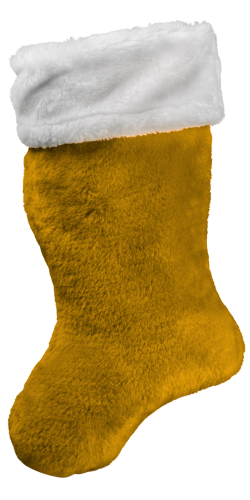
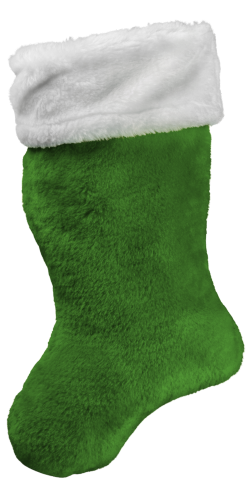
starting fix

diff --git a/holiday/src/rooms/Room1.jsx b/holiday/src/rooms/Room1.jsx
@@ -81,7 +81,7 @@ export default function Room1() {
                     <div className="panel" role="dialog" aria-modal="true" aria-label="Stockings note">
                         <button className="panel-close" onClick={() => setShowNote(false)} aria-label="Close">✕</button>
                         <img src={noteStockings} alt='Note reading: "To light the tree, add the colors that mix me."' />
-                        <p className="panel-text">“To light the tree, add the colors that mix me.”</p>
+                        <p className="panel-text">To light the tree, add the colors that mix me.</p>
                     </div>
                 )}
 
@@ -90,11 +90,10 @@ export default function Room1() {
                         <button className="panel-close" onClick={() => setShowMixer(false)} aria-label="Close">✕</button>
                         <h2>Color Clues</h2>
                         <ul className="panel-list">
-                            <li><strong>Gold</strong> shines when <em>Red + Green</em> come together.</li>
-                            <li><strong>Purple</strong> appears from <em>Red + Blue</em> (it’s “more” than either alone).</li>
-                            <li>Two stockings already show their numbers.</li>
+                            <li>Last year we had a <strong>Yellow</strong>stocking with a golden <strong>7</strong></li>
+                            <li><strong>Purple</strong> appears from <em>Red + Blue</em></li>
+                            <li>Maybe "mix" means add the color numbers...</li>
                         </ul>
-                        <p className="panel-text faint">Maybe “mix” means add the color numbers…</p>
                     </div>
                 )}
 
@@ -103,10 +102,10 @@ export default function Room1() {
                         <button className="panel-close" onClick={() => setShowTreeHint(false)} aria-label="Close">✕</button>
                         <h2>Tree Lights</h2>
                         <p className="panel-text">
-                            The lights flicker near the <b>Blue</b> and <b>Gold</b> stockings, waiting for their numbers.
+                            The lights flicker near the <b>Blue</b> and <b>Green</b> stockings, waiting for their numbers.
                         </p>
                         <p className="panel-text faint">
-                            Red = 7, Green = 5… if Purple comes from Red + Blue, what might Blue be?
+                            Red = 5, Purple = 9...if Purple comes from Red + Blue, what might Blue be?
                         </p>
                     </div>
                 )}

diff --git a/holiday/src/components/StockingShuffle.jsx b/holiday/src/components/StockingShuffle.jsx
@@ -5,17 +5,17 @@ export default function StockingShuffle({ onClose = () => { }, onSolved = () => 
     // Known: Red=7, Green=5. Solve for Blue and Gold.
     // From project notes: correct sequence is [7, 5, 9, 12].
     const [blue, setBlue] = useState("");
-    const [gold, setGold] = useState("");
+    const [green, setGreen] = useState("");
     const [status, setStatus] = useState("idle"); // 'idle' | 'error' | 'success'
 
     const handleSubmit = (e) => {
         e.preventDefault();
         const b = parseInt(blue, 10);
-        const g = parseInt(gold, 10);
+        const g = parseInt(green, 10);
 
-        if (b === 9 && g === 12) {
+        if (b === 4 && g === 11) {
             setStatus("success");
-            setTimeout(() => onSolved(), 600);
+            setTimeout(() => onSolved(), 8000);
         } else {
             setStatus("error");
         }
@@ -27,7 +27,7 @@ export default function StockingShuffle({ onClose = () => { }, onSolved = () => 
                 <button className="panel-close" onClick={onClose} aria-label="Close puzzle">✕</button>
                 <h2>Stocking Shuffle</h2>
                 <p className="modal-hint">
-                    Red = <b>7</b>, Green = <b>5</b>. Blue and Gold are blank.
+                    Red = <b>5</b>, Purple = <b>9</b>. Blue and Green are blank.
                     <br />
                     Use the hints around the room about color mixing to find their values.
                 </p>
@@ -47,14 +47,14 @@ export default function StockingShuffle({ onClose = () => { }, onSolved = () => 
                     </label>
 
                     <label>
-                        Gold
+                        Green
                         <input
                             inputMode="numeric"
                             pattern="[0-9]*"
-                            value={gold}
-                            onChange={(e) => setGold(e.target.value)}
+                            value={green}
+                            onChange={(e) => setGreen(e.target.value)}
                             placeholder="?"
-                            aria-label="Enter Gold stocking number"
+                            aria-label="Enter Green stocking number"
                             required
                         />
                     </label>

diff --git a/holiday/src/styles/Room1.scss b/holiday/src/styles/Room1.scss
@@ -202,7 +202,7 @@
             background: linear-gradient(180deg, rgba(20,28,40,0.95), rgba(14,20,30,0.95));
             border: 1px solid rgba(255,255,255,0.1);
             border-radius: 16px;
-            width: min(720px, 92vw);
+            width: min(820px, 92vw);
             padding: clamp(16px, 2.5vw, 24px);
             box-shadow: 0 12px 40px rgba(0,0,0,0.6);
             color: #e9edf7;
